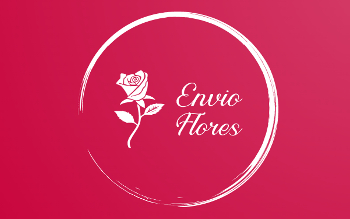
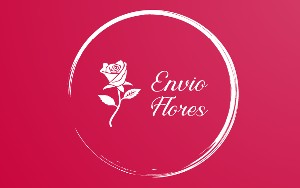
cambios css

diff --git a/src/index.css b/src/index.css
@@ -23,9 +23,7 @@
 
 }
 .seccionLi:hover {
-  background: linear-gradient(to bottom, #f061d1, transparent);
-  background-position: top;
-  border-radius: 10px;
+
   text-decoration: none;
   color: rgb(0, 0, 0);
 }
@@ -40,7 +38,7 @@
 .seccionLi a:hover {
   background: transparent;
   text-decoration: none;
-  color: white;
+  color: rgb(189, 8, 149);
 }
 
 /* CARRITO DE COMPRAS */
@@ -53,13 +51,31 @@
 }
 
 .boton-abrircarrito {
-  color: rgb(0, 0, 0);
-  font-size: 150%;
-  border: groove;
-  justify-content: space-between;
-  margin: 0%;
-  align-items: center;
-  border-radius: 4px;
+  display: inline-block;
+  padding: 0px 16px;
+  font-size: 23px;
+  cursor: pointer;
+  text-align: center;
+  text-decoration: none;
+  outline: none;
+  color: #fff;
+  background-color: #c01a70;
+  border: none;
+  border-radius: 15px;
+  box-shadow: 0 6px #626262;
+  transition: background-color 1s;
+}
+
+.boton-abrircarrito:hover {
+  
+  background-color: #6e063c
+
+}
+
+.boton-abrircarrito:active {
+  background-color: #7e0945;
+  box-shadow: 0 0px #666;
+  transform: translateY(4px);
 }
 
 .fa-shopping-cart {
@@ -81,9 +97,8 @@
 }
 
 .shopCart {
-  color: black;
+  color: white;
   margin: 0%;
-  background: rgba(255, 255, 255, 0.527);
   padding: 1.5px 7.5px;
   font-family: "Quintessential";
   font-size: medium
@@ -128,8 +143,12 @@
   text-decoration: none;
   background: linear-gradient(180deg, rgba(255, 255, 255, 0.623), rgb(255, 108, 189));
 }
-.product-item:hover .tituloProducto {
-  color: rgb(5, 18, 59);
+.tituloProducto{
+  margin: 2%;
+  font-family: "Quintessential";
+}
+.tituloProducto:hover {
+  color: rgb(163, 29, 141);
   transition: all 0.5s;
   font-size: 109%;
 }
@@ -142,6 +161,15 @@
 .product-item img:hover {
   transform: scale(1.01);
 }
+
+
+.elijaTamaño {
+  align-self: center;
+  font-family: "Quintessential";
+  font-size: medium;
+  margin: 1%;  
+}
+
 
 /* agregar productos */
 .button-add {

diff --git a/src/componentes/Nav/nav.module.css b/src/componentes/Nav/nav.module.css
@@ -1,9 +1,11 @@
 .navBar{
     display: flex;
     margin: 0%;
-    background: linear-gradient(rgb(211 56 100), rgb(205 33 83));
+    background: linear-gradient(rgb(255 255 255 / 50%), rgb(255 255 255 / 46%));
     align-items: center;
     width: 100%;
     text-align: center;
 }
+
+
 

diff --git a/src/componentes/Nav/NavBar.js b/src/componentes/Nav/NavBar.js
@@ -1,6 +1,6 @@
 import React from 'react'
 import estilos from './nav.module.css'
-import Logo from '../../imagenes/EnvioFlores.jpg'
+import Logo from '../../imagenes/EnvioFlores2.jpg'
 import CartWidget from '../CartWidget/CartWidget'
 
 const NavBar = () => {
